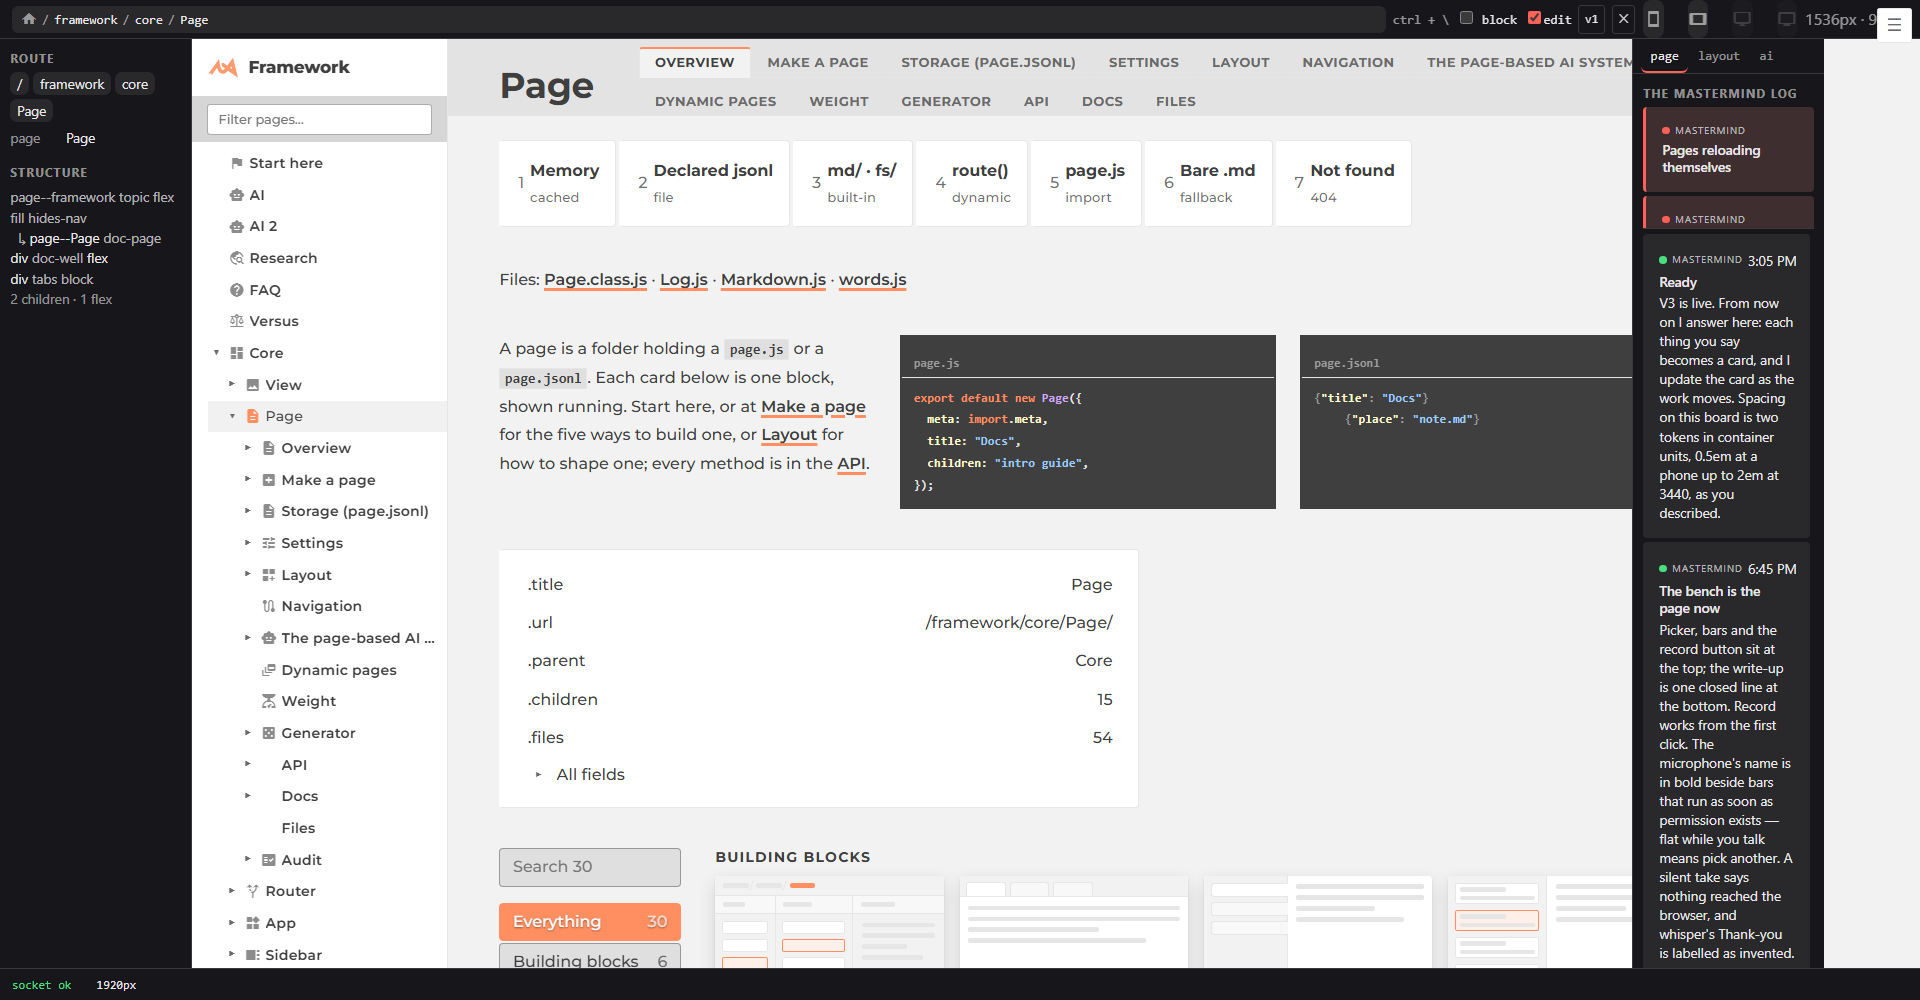
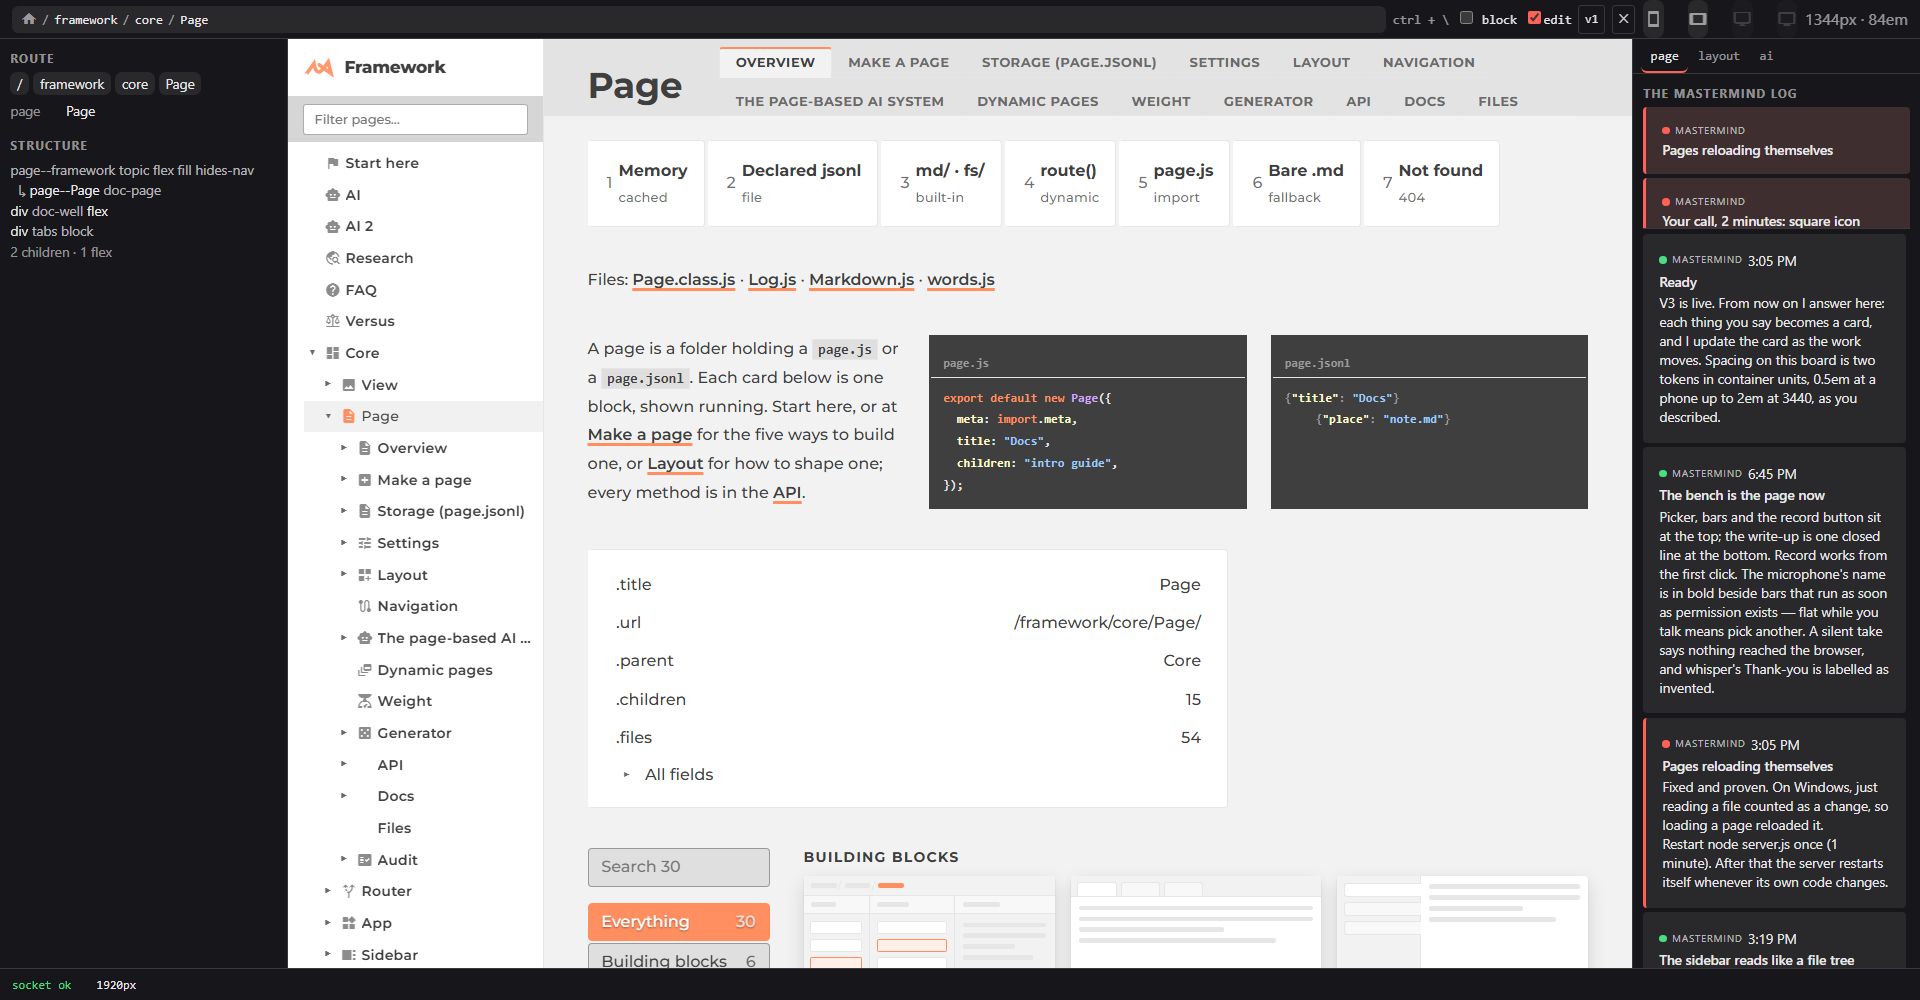
DevShell: regions fill their tracks, phone layout (right sheet, no left), above site chrome; re-shot

diff --git a/public/framework/dev/DevShell/DevShell.css b/public/framework/dev/DevShell/DevShell.css
@@ -34,12 +34,36 @@
 	   clamp's own 18rem default as the fallback) sidestep the percentage
 	   entirely, so `1fr` gets the real leftover width and `right` lands
 	   flush against the window's own edge. doc/decisions.md. */
-	.dev-shell-root .core-shell-grid {
-		grid-template-columns:
-			var(--core-shell-left-w, 18rem)
-			1fr
-			var(--core-shell-right-w, 18rem);
+	@media (width >= 34em) {
+		.dev-shell-root .core-shell-grid, .dev-shell-root.core-shell-grid {
+			grid-template-columns:
+				var(--core-shell-left-w, 18rem)
+				1fr
+				var(--core-shell-right-w, 18rem);
+		}
 	}
+
+	/* BELOW 34em (a phone): the left region goes, the right one is a bottom
+	   sheet the full width of the screen, and the head keeps only what fits on
+	   one line — the path, the toggles, v1 and ✕. The width presets and the
+	   shortcut hint are a desktop's. Measured at 400: with the three-column
+	   rule above left unscoped, both sides were 288px boxes stacked over the page. */
+	@media (width < 34em) {
+		.dev-shell-root .core-shell-left,
+		.dev-shell-root .dev-shell-hint,
+		.dev-shell-root .dev-width { display: none; }
+		.dev-shell-root .core-shell-right { max-height: 45vh; width: auto; }
+		.dev-shell-root .core-shell-grid, .dev-shell-root.core-shell-grid { grid-template-columns: minmax(0, 1fr); }
+	}
+
+	/* Above the site's own fixed chrome (the ☰ at the top right sat over the head). */
+	.dev-shell-root.core-shell-frame, .dev-shell-root .core-shell-frame { z-index: 60; }
+
+	/* ⚠ And the regions FILL those tracks. Shell.css sizes each region itself
+	   with `clamp(12rem, …, 50%)`; inside a definite 18rem track that 50% is
+	   9rem, so the clamp's 12rem floor won and the dark rail stopped 6rem short
+	   of the window's edge, leaving a white strip (1920 shot, 2026-09-30). */
+	.dev-shell-root :is(.core-shell-left, .core-shell-right) { width: auto; }
 
 	.dev-shell-head-line {
 		flex: 1 1 auto;
